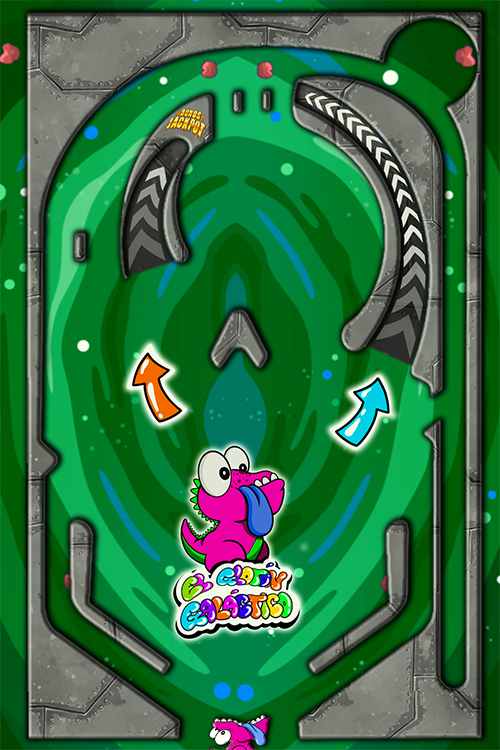
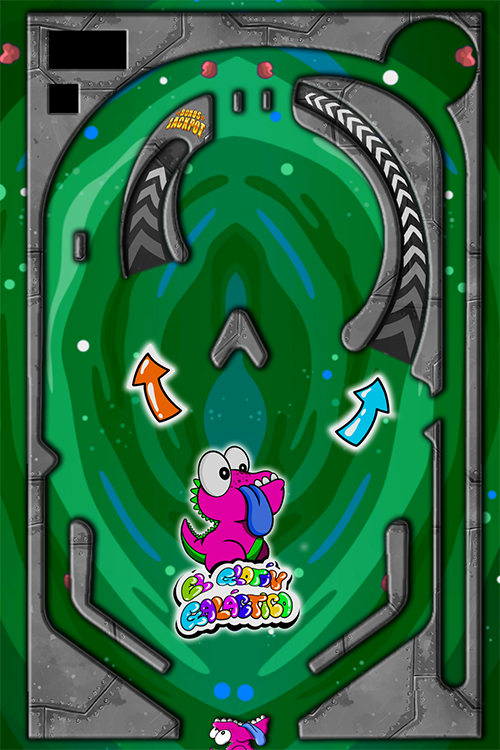
nuevo mapa y proceso de fonts

Changed region(s): [[0.09, 0.0307, 0.27, 0.1533]]

diff --git a/ModuleSceneIntro.h b/ModuleSceneIntro.h
@@ -20,6 +20,7 @@ public:
 	update_status Update();
 	bool CleanUp();
 	void OnCollision(PhysBody* bodyA, PhysBody* bodyB);
+	void FontDraw(int score, int n, int posX, int posY, int separacio, float scale);
 
 public:
 
@@ -70,7 +71,34 @@ public:
 	PhysBody* muelle;
 	PhysBody* muelle_max;
 
+	
+	
 
+
+	int score = 0;
+	int max_score = 0;
+	int prev_score = 0;
+	int posicioFont = 110;
+	int posicioFontY = 20;
+
+	int posicioVidesX = 260;
+	int posicioVidesY = 30;
+
+	int ball_count = 0;
+
+	bool lose = false;
+	bool start = true;
+
+	bool BC1 = false;
+	bool BC2 = false;
+	bool BC3 = false;
+
+	struct Ball {
+		int x, y;
+	};
+	Ball ball;
+
+	int ballY = 550;
 
 	// Lower ground sensor (will kill all objects passig through it)
 	PhysBody* lower_ground_sensor;
@@ -90,6 +118,8 @@ public:
 	SDL_Texture* t_meteorito;
 	SDL_Texture* t_kicker;
 	SDL_Texture* t_parche;
+	SDL_Texture* t_numeros;
+	
 
 	// FX
 	uint bonus_fx;
